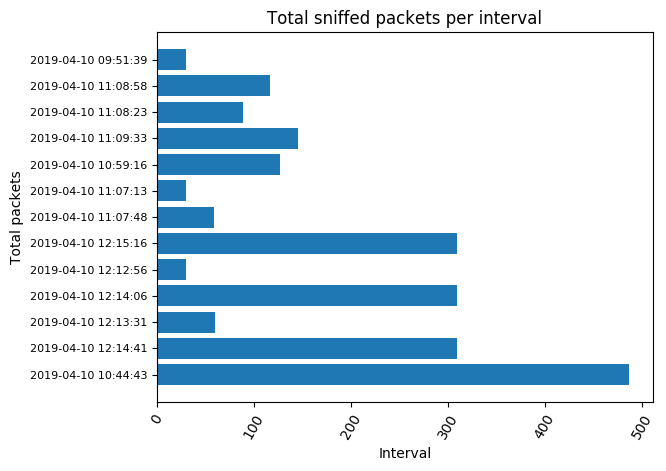
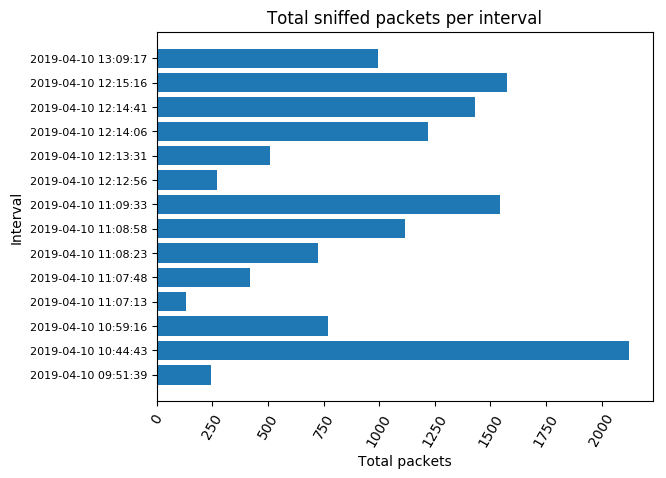
minor changes

Changed region(s): [[0.0, 0.0297, 0.991, 0.9809], [0.03, 0.7728, 0.2402, 0.8025], [0.2102, 0.862, 0.2402, 0.8917]]

diff --git a/templates/dashboard_v3.html b/templates/dashboard_v3.html
@@ -6,7 +6,7 @@
    <meta name="viewport" content="width=device-width, initial-scale=1, maximum-scale=1">
    <meta name="description" content="Bootstrap Admin App + jQuery">
    <meta name="keywords" content="app, responsive, jquery, bootstrap, dashboard, admin">
-   <title>Angle - Bootstrap Admin Template</title>
+   <title>Network Intrusion Detection System</title>
    <!-- =============== VENDOR STYLES ===============-->
    <!-- FONT AWESOME-->
    <link rel="stylesheet" href="/static/vendor/fontawesome/css/font-awesome.min.css">
@@ -34,15 +34,6 @@
             <!-- START navbar header-->
             <div class="navbar-header">
                <a href="#/" class="navbar-brand">
-                  <div class="brand-logo">
-                     <img src="img/logo.png" alt="App Logo" class="img-responsive">
-                  </div>
-                  <div class="brand-logo-collapsed">
-                     <img src="img/logo-single.png" alt="App Logo" class="img-responsive">
-                  </div>
-                   <a href="#" data-trigger-resize="" data-toggle-state="aside-collapsed" class="hidden-xs">
-                        <em class="fa fa-navicon"></em>
-                     </a>
                </a>
             </div>
             <!-- END navbar header-->
@@ -79,7 +70,7 @@
                   </li>
                   <li class=" ">
                      <a href="#dashboard" title="Dashboard" data-toggle="collapse">
-                        <div class="pull-right label label-info">3</div>
+                        <div class="pull-right label label-info">NEW</div>
                         <em class="icon-speedometer"></em>
                         <span data-localize="sidebar.nav.DASHBOARD">Dashboard</span>
                      </a>
@@ -140,7 +131,7 @@
                      <div class="ph">
                         <em class="icon-bubbles fa-lg pull-right"></em>
                         <div class="h2 mt0">{{ totalroute }}</div>
-                        <div class="text-uppercase">Unique traffic routes detected</div>
+                        <div class="text-uppercase">Traffic routes detected</div>
                      </div>
                      <div data-sparkline="" data-type="line" data-width="100%" data-height="75px" data-line-color="#23b7e5" data-chart-range-min="0" data-fill-color="#23b7e5" data-spot-color="#23b7e5" data-min-spot-color="#23b7e5" data-max-spot-color="#23b7e5"
                      data-highlight-spot-color="#23b7e5" data-highlight-line-color="#23b7e5" values="4,5,3,10,7,15" style="margin-bottom: -2px" data-resize="true"></div>

diff --git a/app.py b/app.py
@@ -5,21 +5,29 @@ import matplotlib.pyplot as plt
 from datetime import datetime
 import yaml
 
+# importing yaml configuration file for that extra security
 with open("config.yaml", "r") as ymlfile:
     cfg = yaml.load(ymlfile)
 
+# defining the mongodb values
 db = client[cfg['mongodb']['db']]
 col = db[cfg['mongodb']['collection']]
 package = client.package
 
+# creating empty dataframe
 dFrame = pd.DataFrame()
 
+# looping over the database and retrieving all values
 for obj in col.find():
+
+    # retrieving the following values and store them in variables
     detector = obj['detector']
     starttime = obj['startTime']
     starttime = datetime.utcfromtimestamp(float(starttime)).strftime('%Y-%m-%d %H:%M:%S')
     endtime = obj['endTime']
     endtime = datetime.utcfromtimestamp(float(endtime)).strftime('%Y-%m-%d %H:%M:%S')
+
+    # put all values in a new dataframe dynamically
     newDf = pd.DataFrame()
     newDf['signature'] = obj['signature']
     newDf['packets'] = obj['totalpackets']
@@ -27,9 +35,10 @@ for obj in col.find():
     newDf['endtime'] = endtime
     newDf['detector'] = detector
 
+    # finally, append the new data frame to the existing one for all results
     dFrame = dFrame.append(newDf)
 
-
+# segregating the signature to individual columns and values
 updatedDf = dFrame["signature"].str.split(":", n=4, expand=True)
 dFrame["src_ip"] = updatedDf[0]
 dFrame["src_port"] = updatedDf[1]
@@ -37,29 +46,39 @@ dFrame["dest_ip"] = updatedDf[2]
 dFrame["dest_port"] = updatedDf[3]
 dFrame["protocol"] = updatedDf[4]
 
+# update the disected signature as new columns to the existing main data frame
 dFrame = dFrame[dFrame['src_ip'].map(len) > 5]
 dFrame = dFrame[dFrame['src_port'].map(len) < 6]
 dFrame = dFrame[dFrame['dest_ip'].map(len) > 5]
 dFrame = dFrame[dFrame['dest_port'].map(len) < 6]
 
-
+# counting the amount of signatures
 sumofsignature = dFrame.shape[0]
 print(sumofsignature)
 
+# re arranging the columns and leaving out the signature column
 dFrame = dFrame[['src_ip', 'src_port', 'dest_ip', 'dest_port', 'protocol', 'packets', 'starttime', 'endtime', 'detector']]
 columns = dFrame.columns
 
-#print(dFrame.to_string())
+############################################## START BAR CHART ########################################################################
 
+# preparing dataset for bar chart
 dFrame.packets = dFrame.packets.astype(int)
-dFrame = dFrame.sort_values(by=['packets'])
 
+# creating new dataframe for the barchart
+lawlDf = pd.DataFrame()
+lawlDf = dFrame[['starttime', 'packets']]
+lawlDf = lawlDf.groupby('starttime', as_index=False).agg(sum)
+
+# total packets
 sumofpackets = dFrame['packets'].sum()
 print(sumofpackets)
 
-packets = dFrame['packets']
-sniffDate = dFrame['starttime']
+# columns to use for bar chart
+packets = lawlDf['packets']
+sniffDate = lawlDf['starttime']
 
+# creating the bar chart
 plt.barh(sniffDate, packets, .8)
 axes = plt.gca()
 plt.xticks(rotation=60)
@@ -67,31 +86,34 @@ plt.yticks(fontsize='8')
 plt.ylabel("Interval")
 plt.xlabel("Total packets")
 plt.title("Total sniffed packets per interval")
+
+# saving the bar chart
 plt.savefig('static/images/ipchart.png', bbox_inches='tight')
 plt.show()
+############################################## END BAR CHART ########################################################################
 
-# dataset for the piechart to use
+############################################## START PIE CHART ########################################################################
+
+# preparing the data set for the piechart to use
 lolFrame = pd.DataFrame()
+
+# using the relevant columns and put them in a new data frame
 lolFrame = dFrame[['packets', 'protocol']]
+
+# Aggregating the total packets per protocol
 lolFrame = lolFrame.groupby('protocol', as_index=False).agg(sum)
-print(list(lolFrame))
+
+#some bs color scheme for the piechart
 colors = ["#E13F29", "#D69A80", "#D63B59", "#AE5552", "#CB5C3B", "#EB8076", "#96624E"]
 
 # Create a pie chart
 plt.pie(
-    # using data total)arrests
     lolFrame['packets'],
-    # with the labels being officer names
     labels=lolFrame['protocol'],
-    # with no shadows
-    shadow=False,
-    # with colors
+    shadow=True,
     colors=colors,
-    # with one slide exploded out
     explode=(0, 0.1),
-    # with the start angle at 90%
     startangle=90,
-    # with the percent listed as a fraction
     autopct='%1.1f%%',
     )
 
@@ -101,9 +123,15 @@ plt.title("Protocol sniffed")
 
 # View the plot
 plt.tight_layout()
+
+# saving the plot as an image
 plt.savefig('static/images/piechart.png', bbox_inches='tight')
 plt.show()
 
+############################################ END PIE CHART ############################################################################
+
+
+# defining the flask app
 app = Flask(__name__)
 
 @app.route("/")

diff --git a/coll.py b/coll.py
@@ -13,7 +13,7 @@ class manageTraffic():
 
     def structureTraffic(self, signature, totalpackets, startTime, packetTime):
 
-        #data will be sent to server over socket
+        # data will be sent to server over socket
         HOST = cfg['socket']['ip']
         PORT = cfg['socket']['port']
 

diff --git a/sniff.py b/sniff.py
@@ -42,7 +42,7 @@ def printinfo(packet):
         print(e)
 
 
-
+# the actual sniffer
 def sniffThatSh():
     print("[*] Start sniffing...\n")
     sniff(iface=interface, filter="ip and tcp or udp", prn=printinfo, timeout=intervalInt)
